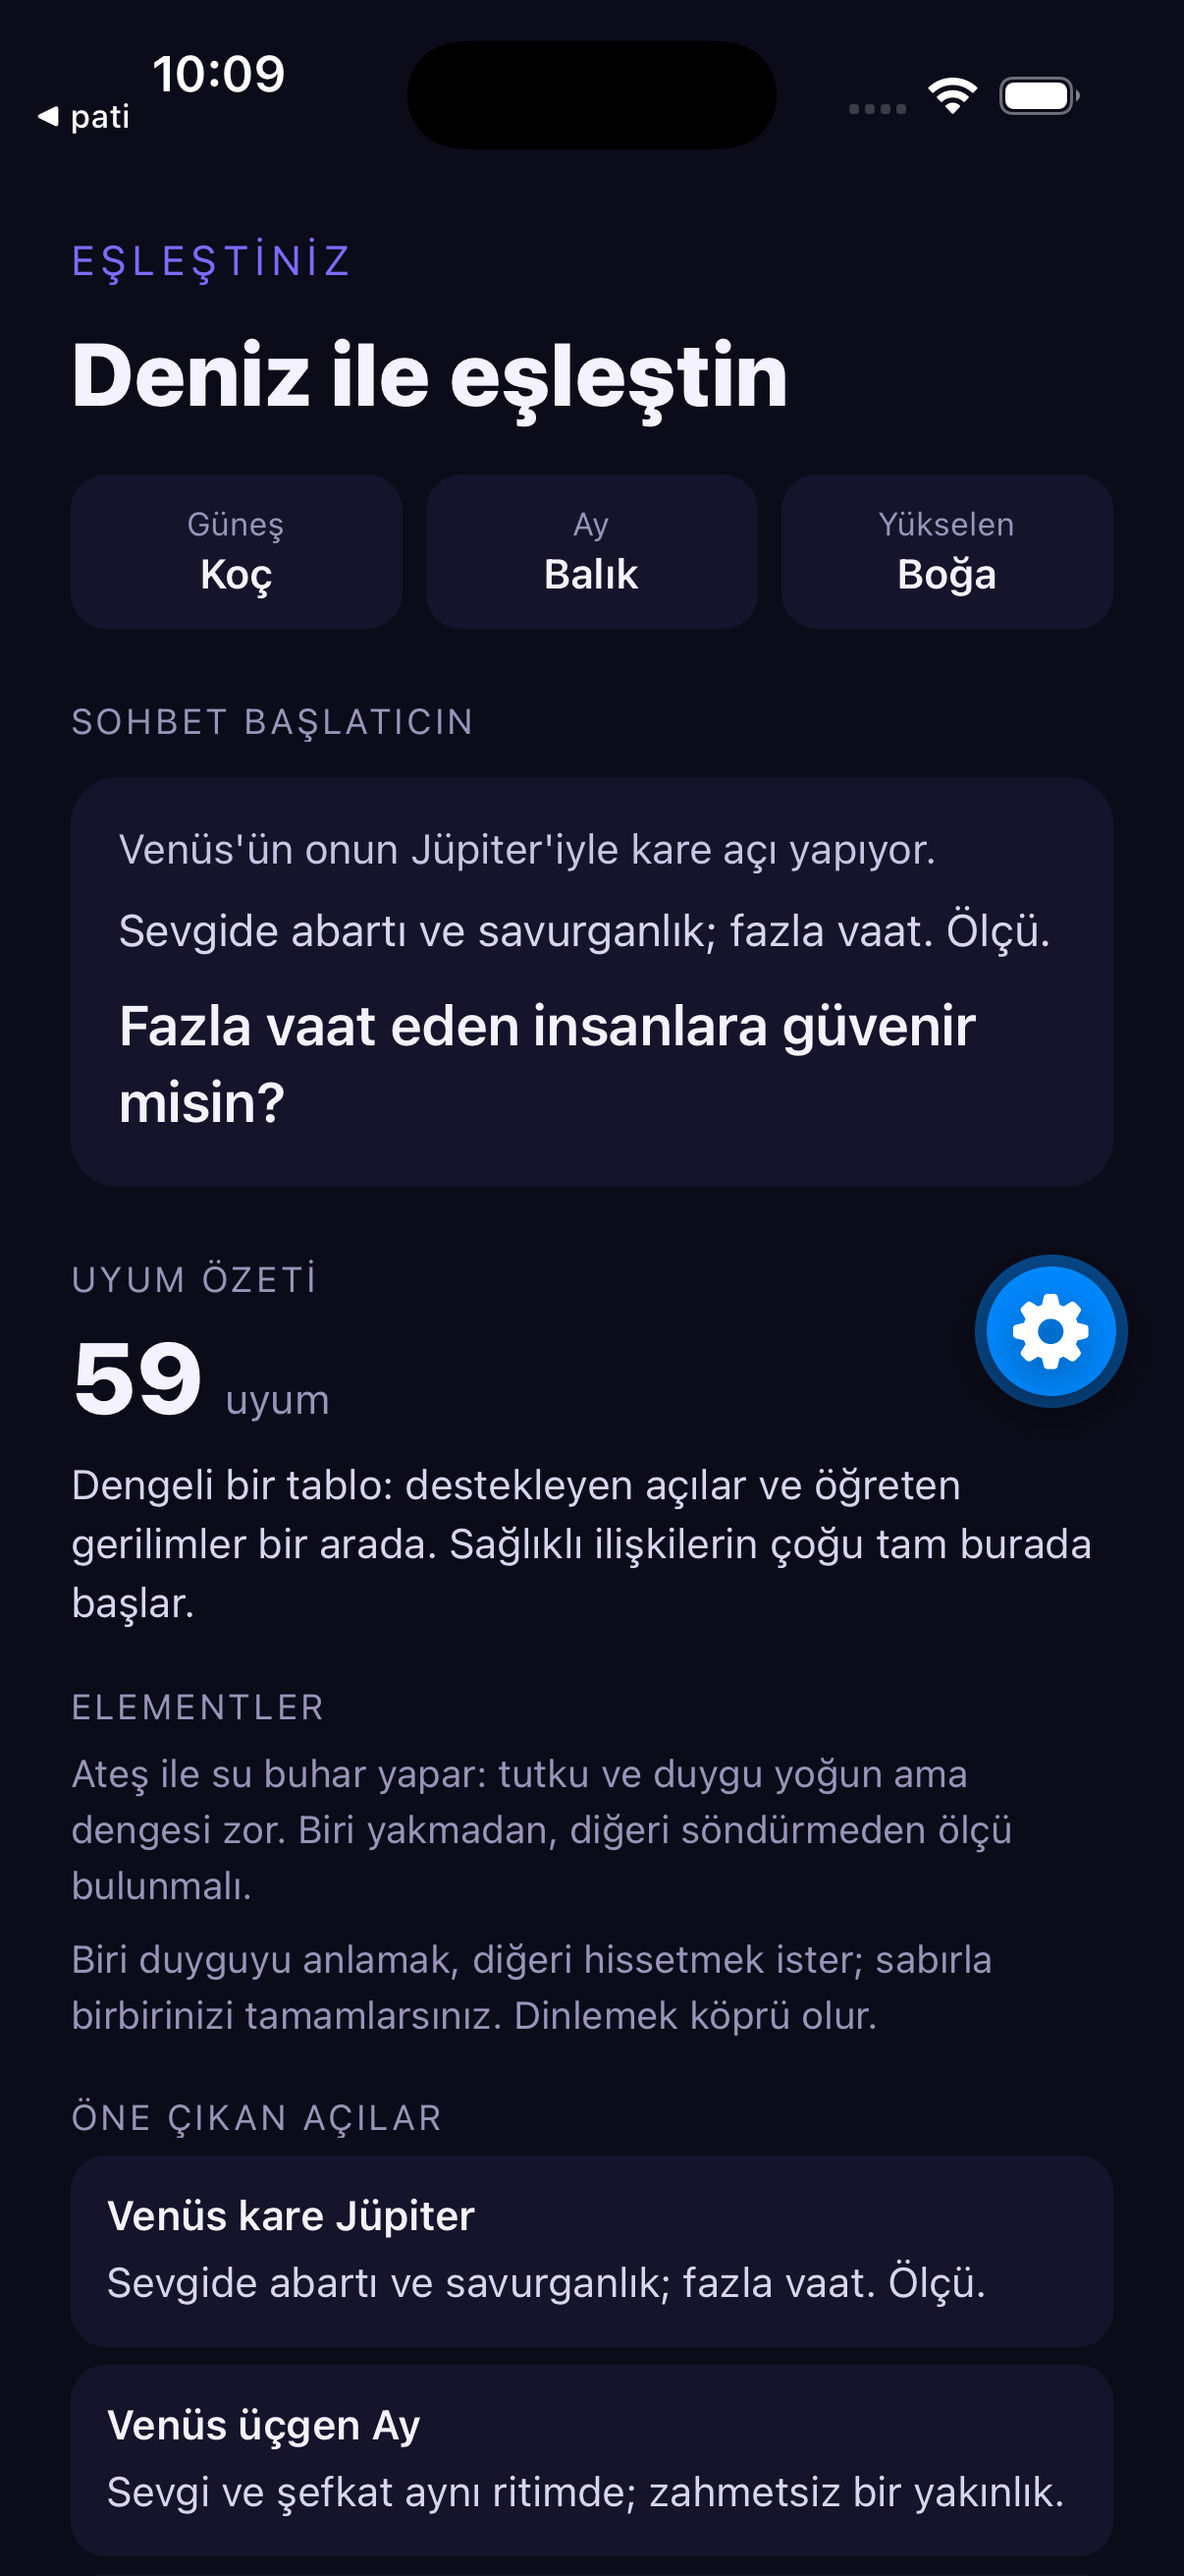
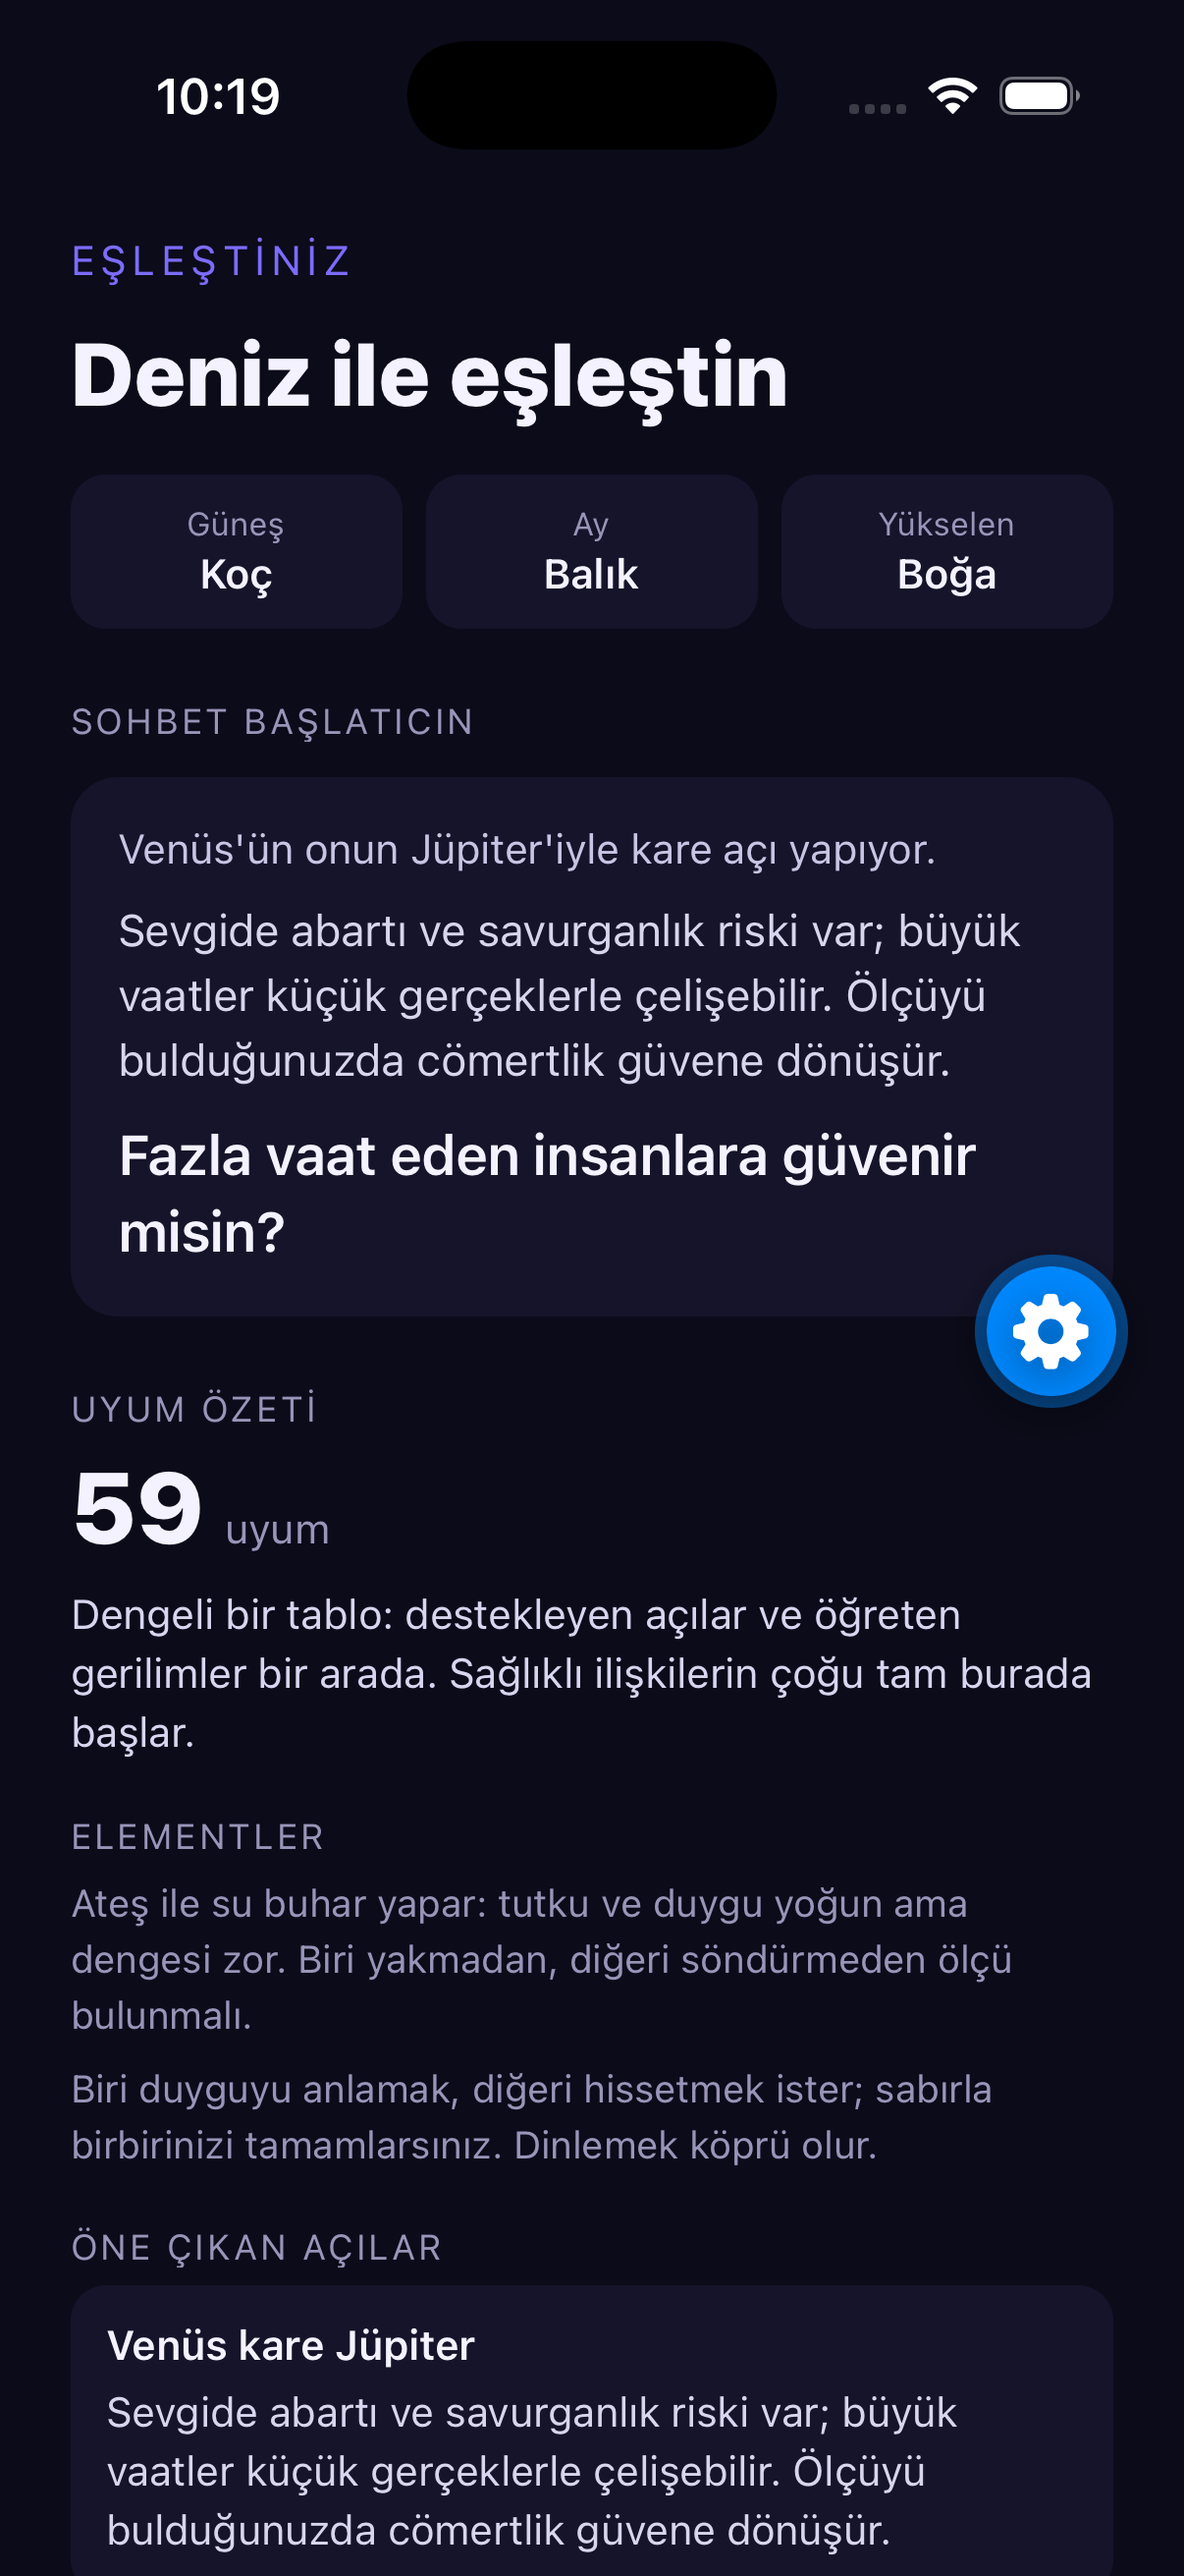
docs: interpretation content notes, roadmap item in progress pending owner sign-off; synastry screenshot refreshed

diff --git a/docs/ROADMAP.md b/docs/ROADMAP.md
@@ -163,22 +163,23 @@ code-reviewer run, remotes + CI (`ci.yml`) live, NOTES entry written.
       (CC BY 4.0) and astronomy-engine (MIT).
       — done when: profile insert without `consent_at` is rejected by a
       CHECK constraint (battery) and the URL returns 200 (manual).
-- [ ] **Full Turkish content (owner priority, before chat).** Professional
-      1–2-sentence interpretations for every combination the engine can
-      emit, as data in `packages/astro/content/tr/*.json` validated by Zod:
-      planet×sign (120) + rising sign (12), planet×house (120), retrograde
-      (8), natal aspects (55 body pairs × 5 = 275), synastry aspects (66
-      pairs × 5 = 330, each with an opening question), element pairs for
-      Sun and Moon (20), score bands (5). Engine gains `natalAspects(chart)`
-      and a ranked synastry summary. UI: chart screen shows sign + house
-      lines per planet and an aspects section; discover card keeps score +
-      one line; match screen and a compatibility-detail screen show the
-      top aspects with meaning and the pair-specific opening question.
-      Authored by Claude, reviewed by the owner.
-      — done when: a Vitest asserts every key the engine can emit has a
-      non-empty snippet in every content file (battery);
-      `screenshots/c1-chart-texts.png`, `c1-aspects.png`, `c1-synastry.png`
-      show the texts on the real user; owner sign-off recorded in NOTES.
+- [~] **Full Turkish content (owner priority, before chat).** _Built and
+  verified; awaiting owner sign-off on the texts._ Professional
+  1–2-sentence interpretations for every combination the engine can
+  emit, as data in `packages/astro/content/tr/*.json` validated by Zod:
+  planet×sign (120) + rising sign (12), planet×house (120), retrograde
+  (8), natal aspects (55 body pairs × 5 = 275), synastry aspects (66
+  pairs × 5 = 330, each with an opening question), element pairs for
+  Sun and Moon (20), score bands (5). Engine gains `natalAspects(chart)`
+  and a ranked synastry summary. UI: chart screen shows sign + house
+  lines per planet and an aspects section; discover card keeps score +
+  one line; match screen and a compatibility-detail screen show the
+  top aspects with meaning and the pair-specific opening question.
+  Authored by Claude, reviewed by the owner.
+  — done when: a Vitest asserts every key the engine can emit has a
+  non-empty snippet in every content file (battery);
+  `screenshots/c1-chart-texts.png`, `c1-aspects.png`, `c1-synastry.png`
+  show the texts on the real user; owner sign-off recorded in NOTES.
 - [ ] **Session in SecureStore.** The skeleton keeps the Supabase session
       (refresh token) in AsyncStorage, Supabase's documented Expo default but
       plaintext in the sandbox; wrap an AES key in expo-secure-store and

diff --git a/docs/NOTES.md b/docs/NOTES.md
@@ -10,6 +10,41 @@
      CLAUDE.md) that maya should inherit. /update-stack harvests this list.
      Format: date · file · one-line what/why. Remove entries once upstreamed. -->
 
+## 2026-09-08 — Interpretation content (owner priority)
+
+- Owner asked for professional, 1–2-sentence analysis of every chart and
+  compatibility combination without drowning the user. Built:
+  `packages/astro/content/tr/` — signs 132, houses 120, retrograde 8,
+  natal aspects 216 (45 body pairs × 5 minus 9 geometrically impossible
+  Sun–Mercury/Sun–Venus/Mercury–Venus hard aspects), synastry 255 (51
+  pairs × 5, each meaning + opening question), Sun/Moon element pairs 20,
+  score bands 5 — 756 texts, Zod-validated, `content.test.ts` enumerates
+  every key the engine can emit and fails on a missing or unknown key
+  (generational outer–outer pairs are excluded from both engine and key
+  space). Engine: `natalAspects`, `natalReading`, `synastryReading`,
+  `starterFromKey`. UI: chart screen shows sign + house + retrograde
+  lines per planet and the strongest natal aspects with orbs; discover
+  card has an expandable detail (band, elements, top 3 aspects); match
+  screen shows the pair-specific starter (headline, meaning, question),
+  score band, element lines and top 5 aspects.
+- Quality pass: the first draft of the 300 outer-planet entries was
+  telegraphic ("… fazla vaat. Ölçü."); all rewritten as full sentences in
+  `b0fd8cf`. Voice: natal texts address the user ("sen"), synastry texts
+  describe the pair neutrally so one text serves both viewers; the
+  mechanical headline is oriented per viewer by the engine.
+- Verified: battery green (astro 218 tests); `screenshots/c1-chart-texts.png`,
+  `c1-aspects.png`, `c1-synastry.png` on the real user (Ayse / Deniz).
+  Not done: owner sign-off on the texts (the done-when's last clause);
+  ROADMAP item marked in progress until then.
+- Gotchas: `exp://` is claimed by both Expo Go and the pati dev build on
+  this simulator, so `openurl` sometimes fronts pati and typed text lands
+  there — `xcrun simctl launch booted host.exp.Exponent` before typing.
+  An expired session once left the app on "Yükleniyor…" with no network
+  request until Expo Go was relaunched (then it resolved to signed-out);
+  not reproduced, worth watching (v1 SecureStore/session item).
+  `prettier --write` must include `packages/astro/content` after regenerating
+  JSON from Python (indent differs).
+
 ## 2026-09-08 — S7 match + conversation starter
 
 - Done: `starterSentenceTr` (astro), `lib/matches.ts` (Zod rows from
